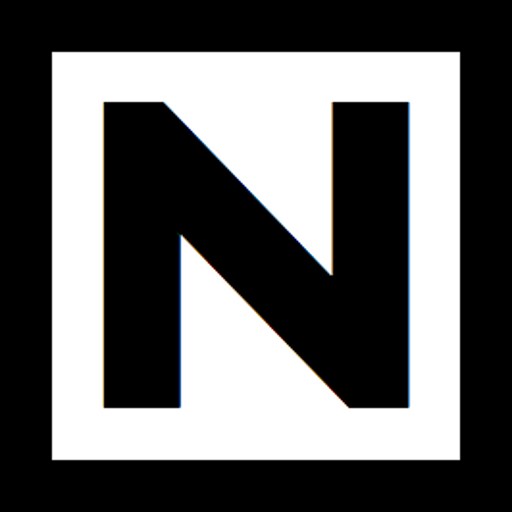
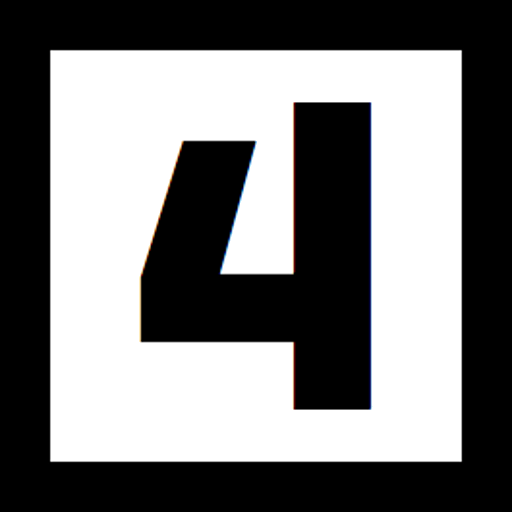
* Replaced N with 4 on CozmoMat

Changed region(s): [[0.1875, 0.1875, 0.8125, 0.8125], [0.0938, 0.0938, 0.9062, 0.9062]]

diff --git a/basestation/src/blockWorld.cpp b/basestation/src/blockWorld.cpp
@@ -125,7 +125,7 @@ namespace Anki
         mat->AddMarker(Vision::MARKER_J,
                        Pose3d(1.570796, {-1.000000,0.000000,0.000000}, {-66.666667,200.000000,0.000000}),
                        65.000000);
-        mat->AddMarker(Vision::MARKER_N,
+        mat->AddMarker(Vision::MARKER_4,
                        Pose3d(1.570796, {-1.000000,0.000000,0.000000}, {66.666667,200.000000,0.000000}),
                        65.000000);
         mat->AddMarker(Vision::MARKER_Y,

diff --git a/matlab/makeMatVisionMarkers.m b/matlab/makeMatVisionMarkers.m
@@ -17,7 +17,7 @@ markerSize_mm = 65;
 matMarkerPath = '~/Box Sync/Cozmo SE/VisionMarkers/lettersWithFiducials/unpadded';
 fnames = {'A', 'B', 'C', 'D';
     'E', 'F', 'G', 'J';
-    'K', 'L', 'M', 'N';
+    'K', 'L', 'M', '4';
     'P', 'R', 'T', 'Y'};
 fnames = cellfun(@(name)fullfile(matMarkerPath, [name '.png']), fnames, 'UniformOutput', false);
 angles = zeros(4);
